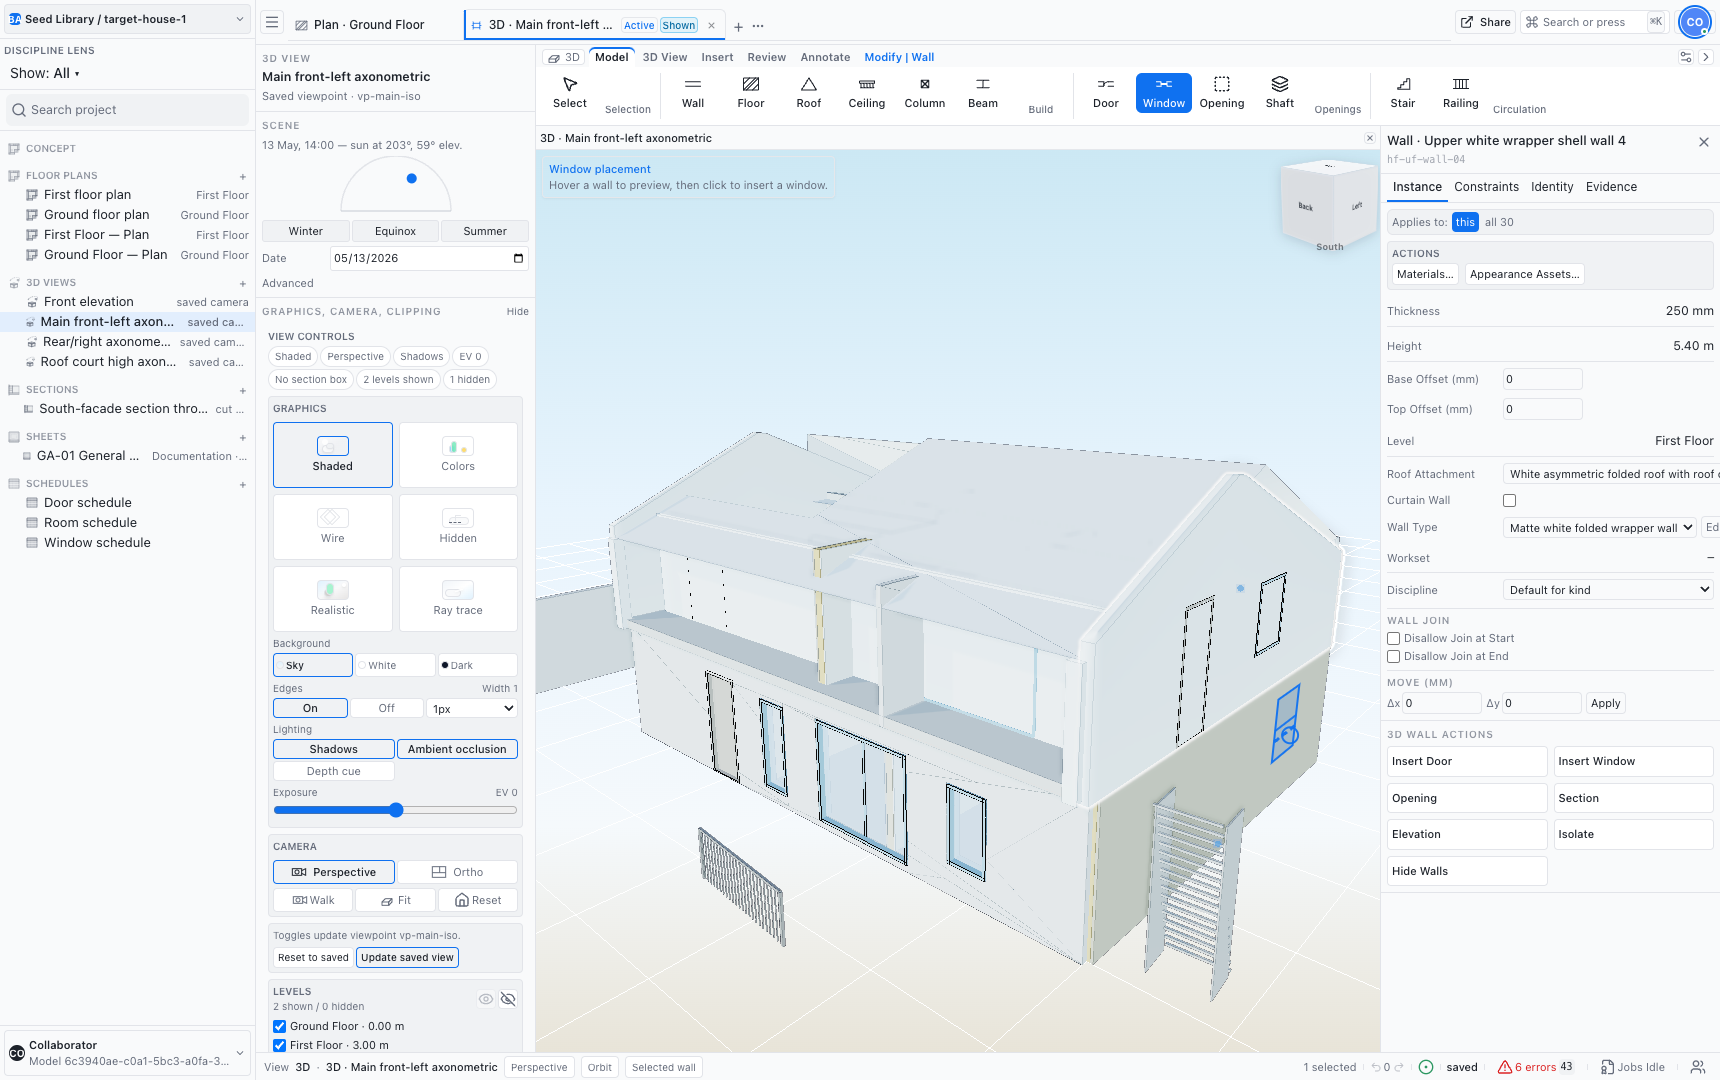
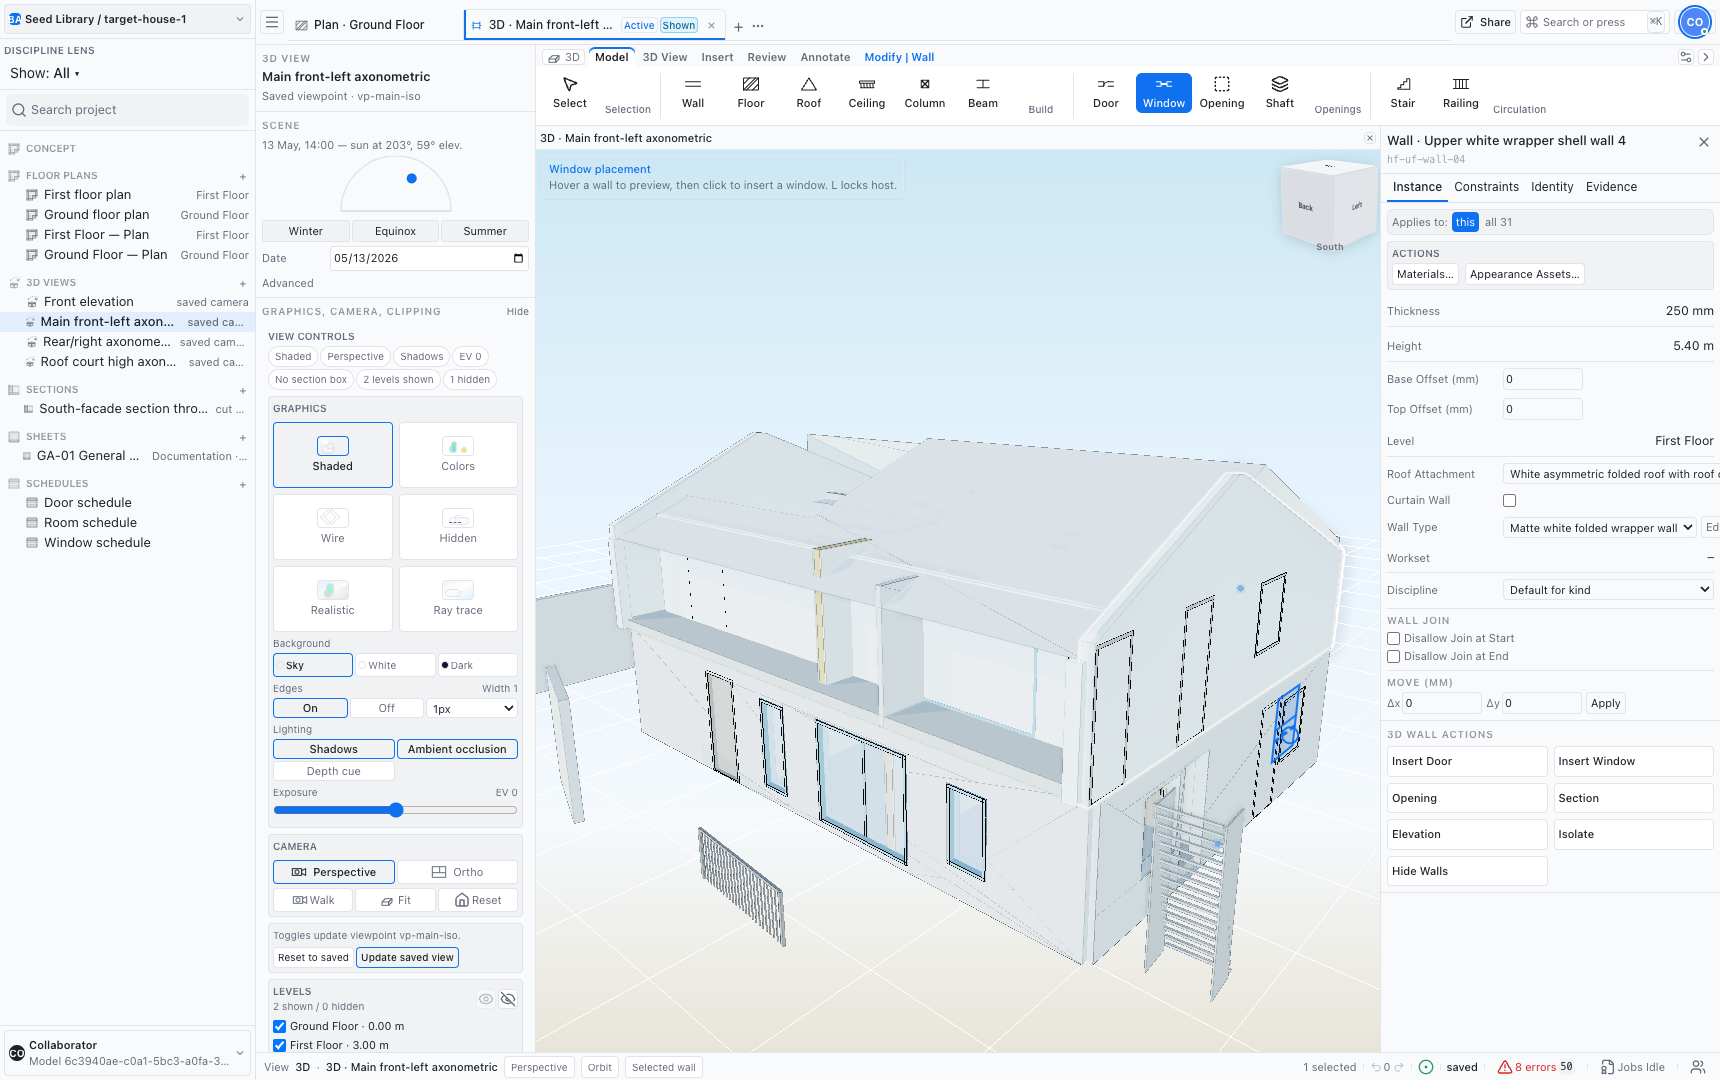
Add 3D host lock controls and robust hosted placement dedupe
Entire-Checkpoint: 5dba32492fc3

Changed region(s): [[0.6163, 0.6111, 0.7703, 0.8861], [0.3081, 0.6417, 0.339, 0.7639]]

diff --git a/packages/web/src/Viewport.tsx b/packages/web/src/Viewport.tsx
@@ -188,6 +188,7 @@ type Authoring3dOverlayState = {
   previewHostValid?: boolean;
   previewHostWallId?: string;
   previewHostAlongT?: number;
+  previewHostLock?: boolean;
   previewAuxLines?: Array<{ start: ScreenPoint; end: ScreenPoint }>;
   previewAuxArcPath?: string;
   wallPreviewOutlineScreen?: ScreenPoint[];
@@ -518,7 +519,14 @@ export function Viewport({ wsConnected, onSemanticCommand, remoteSelections }: P
       if (POLYGON_3D_AUTHORING_TOOLS.has(tool)) {
         return { tool, phase: 'pick-vertex', levelName: direct3dDraftLevelName, pointsScreen: [] };
       }
-      return { tool, phase: 'pick-wall', previewHostValid: false };
+      return {
+        tool,
+        phase: 'pick-wall',
+        previewHostValid: false,
+        previewHostLock: false,
+        previewAuxLines: undefined,
+        previewAuxArcPath: undefined,
+      };
     });
   }, [planTool, direct3dDraftLevelName]);
 
@@ -860,8 +868,10 @@ export function Viewport({ wsConnected, onSemanticCommand, remoteSelections }: P
       levelId: string;
       points: Array<{ xMm: number; yMm: number }>;
     } | null = null;
-    let lastHostedPlacement: HostedPlacementDedupeState | null = null;
+    let lastHostedPlacementScreen: HostedPlacementDedupeState | null = null;
+    let lastHostedPlacementHost: HostedPlacementDedupeState | null = null;
     let wallFlipNextSegment = false;
+    let hostPreviewLock = false;
 
     function placeCamera(): void {
       const snap = rig.snapshot();
@@ -974,6 +984,7 @@ export function Viewport({ wsConnected, onSemanticCommand, remoteSelections }: P
       options?: {
         tool?: 'door' | 'window' | 'wall-opening';
         preferWallId?: string;
+        lockToPreferred?: boolean;
       },
     ): {
       wall: Extract<Element, { kind: 'wall' }>;
@@ -1030,7 +1041,12 @@ export function Viewport({ wsConnected, onSemanticCommand, remoteSelections }: P
       let picked = sorted[0]!;
       if (options?.preferWallId) {
         const preferred = candidates.get(options.preferWallId);
-        if (preferred && preferred.score <= picked.score + 0.08) picked = preferred;
+        if (options.lockToPreferred) {
+          if (!preferred) return null;
+          picked = preferred;
+        } else if (preferred && preferred.score <= picked.score + 0.08) {
+          picked = preferred;
+        }
       }
       return {
         wall: picked.wall,
@@ -1170,7 +1186,7 @@ export function Viewport({ wsConnected, onSemanticCommand, remoteSelections }: P
       const headMm = tool === 'window' ? 2400 : tool === 'wall-opening' ? 2400 : 2100;
       const openingBottomMm = Math.min(topZMm - 50, baseZMm + sillMm);
       const openingTopMm = Math.max(openingBottomMm + 50, Math.min(topZMm, baseZMm + headMm));
-      const centerT = hit.alongT;
+      const centerT = clampHostedAlongT(tool, hit.wall, hit.alongT);
       const halfDeltaT = previewWidthMm / 2 / wallLenMm;
       const startT = Math.max(0, centerT - halfDeltaT);
       const endT = Math.min(1, centerT + halfDeltaT);
@@ -1223,13 +1239,31 @@ export function Viewport({ wsConnected, onSemanticCommand, remoteSelections }: P
       };
     }
 
+    function clampHostedAlongT(
+      tool: 'door' | 'window' | 'wall-opening',
+      wall: Extract<Element, { kind: 'wall' }>,
+      alongT: number,
+    ): number {
+      const dx = wall.end.xMm - wall.start.xMm;
+      const dy = wall.end.yMm - wall.start.yMm;
+      const wallLenMm = Math.max(1, Math.hypot(dx, dy));
+      const nominalWidthMm = tool === 'door' ? 900 : tool === 'window' ? 1200 : 1000;
+      const edgeClearanceMm = nominalWidthMm / 2 + 80;
+      const margin = Math.max(0.02, Math.min(0.18, edgeClearanceMm / wallLenMm));
+      return Math.max(margin, Math.min(1 - margin, alongT));
+    }
+
     function handle3dDirectToolClick(cx: number, cy: number): boolean {
       const tool = activeDirect3dTool();
       if (!tool) {
         lineDraftStart = null;
         polygonDraft = null;
+        hostPreviewLock = false;
         setAuthoringOverlay(null);
         return false;
+      }
+      if (tool !== 'door' && tool !== 'window' && tool !== 'wall-opening') {
+        hostPreviewLock = false;
       }
       if (!POLYGON_3D_AUTHORING_TOOLS.has(tool)) polygonDraft = null;
       if (!LINE_3D_AUTHORING_TOOLS.has(tool)) lineDraftStart = null;
@@ -1238,6 +1272,7 @@ export function Viewport({ wsConnected, onSemanticCommand, remoteSelections }: P
         const hit = pickWallAtPointer(cx, cy, {
           tool,
           preferWallId: overlay?.tool === tool ? overlay.previewHostWallId : undefined,
+          lockToPreferred: hostPreviewLock,
         });
         const rect = renderer.domElement.getBoundingClientRect();
         const clickScreen = { x: cx - rect.left, y: cy - rect.top };
@@ -1272,8 +1307,9 @@ export function Viewport({ wsConnected, onSemanticCommand, remoteSelections }: P
                   previewStartScreen: undefined,
                   previewEndScreen: undefined,
                   previewHostValid: false,
-                  previewHostWallId: undefined,
-                  previewHostAlongT: undefined,
+                  previewHostWallId: hostPreviewLock ? prev.previewHostWallId : undefined,
+                  previewHostAlongT: hostPreviewLock ? prev.previewHostAlongT : undefined,
+                  previewHostLock: hostPreviewLock,
                   previewAuxLines: undefined,
                   previewAuxArcPath: undefined,
                 }
@@ -1281,13 +1317,23 @@ export function Viewport({ wsConnected, onSemanticCommand, remoteSelections }: P
           );
           return true;
         }
-        alongT = Math.max(0, Math.min(1, alongT));
-        const nextPlacement: HostedPlacementDedupeState = {
+        alongT = clampHostedAlongT(tool, hostWall, Math.max(0, Math.min(1, alongT)));
+        const nextPlacementScreen: HostedPlacementDedupeState = {
           key: `${tool}:${Math.round(clickScreen.x / 8)}:${Math.round(clickScreen.y / 8)}`,
           atMs: performance.now(),
         };
-        if (isDuplicateHostedPlacement(lastHostedPlacement, nextPlacement)) return true;
-        lastHostedPlacement = nextPlacement;
+        const nextPlacementHost: HostedPlacementDedupeState = {
+          key: `${tool}:${hostWall.id}:${Math.round(alongT * 1000)}`,
+          atMs: performance.now(),
+        };
+        if (
+          isDuplicateHostedPlacement(lastHostedPlacementScreen, nextPlacementScreen, 900) ||
+          isDuplicateHostedPlacement(lastHostedPlacementHost, nextPlacementHost, 1500)
+        ) {
+          return true;
+        }
+        lastHostedPlacementScreen = nextPlacementScreen;
+        lastHostedPlacementHost = nextPlacementHost;
         useBimStore.getState().select(hostWall.id);
         if (tool === 'door') {
           onSemanticCommand?.({
@@ -1883,6 +1929,7 @@ export function Viewport({ wsConnected, onSemanticCommand, remoteSelections }: P
             authoringOverlayRef.current?.tool === directTool
               ? authoringOverlayRef.current.previewHostWallId
               : undefined,
+          lockToPreferred: hostPreviewLock,
         });
         if (!hit) {
           setAuthoringOverlay((prev) =>
@@ -1897,8 +1944,9 @@ export function Viewport({ wsConnected, onSemanticCommand, remoteSelections }: P
                   previewStartScreen: undefined,
                   previewEndScreen: undefined,
                   previewHostValid: false,
-                  previewHostWallId: undefined,
-                  previewHostAlongT: undefined,
+                  previewHostWallId: hostPreviewLock ? prev.previewHostWallId : undefined,
+                  previewHostAlongT: hostPreviewLock ? prev.previewHostAlongT : undefined,
+                  previewHostLock: hostPreviewLock,
                   previewAuxLines: undefined,
                   previewAuxArcPath: undefined,
                 }
@@ -1918,6 +1966,7 @@ export function Viewport({ wsConnected, onSemanticCommand, remoteSelections }: P
                     previewHostValid: preview.valid,
                     previewHostWallId: hit.wall.id,
                     previewHostAlongT: hit.alongT,
+                    previewHostLock: hostPreviewLock,
                     previewAuxLines: preview.auxLines,
                     previewAuxArcPath: preview.auxArcPath,
                   }
@@ -2038,6 +2087,36 @@ export function Viewport({ wsConnected, onSemanticCommand, remoteSelections }: P
       }
       if (ev.key === 'Escape' && walkController.snapshot().active) {
         ev.preventDefault();
+      }
+      if (ev.key === 'Escape') {
+        const tool = activeDirect3dTool();
+        if (tool === 'door' || tool === 'window' || tool === 'wall-opening') {
+          hostPreviewLock = false;
+          setAuthoringOverlay((prev) =>
+            prev?.tool === tool
+              ? {
+                  ...prev,
+                  previewHostLock: false,
+                }
+              : prev,
+          );
+        }
+      }
+      if (ev.key === 'Tab' || ev.key.toLowerCase() === 'l') {
+        const tool = activeDirect3dTool();
+        if (tool === 'door' || tool === 'window' || tool === 'wall-opening') {
+          hostPreviewLock = !hostPreviewLock;
+          setAuthoringOverlay((prev) =>
+            prev?.tool === tool
+              ? {
+                  ...prev,
+                  previewHostLock: hostPreviewLock,
+                }
+              : prev,
+          );
+          ev.preventDefault();
+          return;
+        }
       }
       if (ev.code === 'Space') {
         const tool = activeDirect3dTool();
@@ -3536,8 +3615,12 @@ export function Viewport({ wsConnected, onSemanticCommand, remoteSelections }: P
         title: 'Door placement',
         instruction:
           authoringOverlay.previewHostValid === false
-            ? 'Move over a wall to see a valid host preview, then click to place.'
-            : 'Hover a wall to preview, then click to insert a door.',
+            ? `Move over a wall to see a valid host preview, then click to place. L ${
+                authoringOverlay.previewHostLock ? 'unlocks' : 'locks'
+              } host.`
+            : `Hover a wall to preview, then click to insert a door. L ${
+                authoringOverlay.previewHostLock ? 'unlocks' : 'locks'
+              } host.`,
       };
     }
     if (authoringOverlay.tool === 'window') {
@@ -3545,16 +3628,24 @@ export function Viewport({ wsConnected, onSemanticCommand, remoteSelections }: P
         title: 'Window placement',
         instruction:
           authoringOverlay.previewHostValid === false
-            ? 'Move over a wall to see a valid host preview, then click to place.'
-            : 'Hover a wall to preview, then click to insert a window.',
+            ? `Move over a wall to see a valid host preview, then click to place. L ${
+                authoringOverlay.previewHostLock ? 'unlocks' : 'locks'
+              } host.`
+            : `Hover a wall to preview, then click to insert a window. L ${
+                authoringOverlay.previewHostLock ? 'unlocks' : 'locks'
+              } host.`,
       };
     }
     return {
       title: 'Opening placement',
       instruction:
         authoringOverlay.previewHostValid === false
-          ? 'Move over a wall to see a valid host preview, then click to place.'
-          : 'Hover a wall to preview, then click to insert an opening.',
+          ? `Move over a wall to see a valid host preview, then click to place. L ${
+              authoringOverlay.previewHostLock ? 'unlocks' : 'locks'
+            } host.`
+          : `Hover a wall to preview, then click to insert an opening. L ${
+              authoringOverlay.previewHostLock ? 'unlocks' : 'locks'
+            } host.`,
     };
   }, [authoringOverlay, direct3dAuthoringActive]);
 
@@ -3795,6 +3886,31 @@ export function Viewport({ wsConnected, onSemanticCommand, remoteSelections }: P
                 opacity="0.9"
               />
             ))}
+            {authoringOverlay.previewHostLock ? (
+              <>
+                <rect
+                  x={authoringOverlay.currentScreen.x + 12}
+                  y={authoringOverlay.currentScreen.y - 26}
+                  width={72}
+                  height={18}
+                  rx={9}
+                  fill="color-mix(in srgb, var(--color-accent) 22%, var(--color-surface))"
+                  stroke="var(--color-accent)"
+                  strokeWidth="1"
+                  opacity="0.95"
+                />
+                <text
+                  x={authoringOverlay.currentScreen.x + 48}
+                  y={authoringOverlay.currentScreen.y - 14}
+                  textAnchor="middle"
+                  fontSize="10"
+                  fontWeight="600"
+                  fill="var(--color-accent)"
+                >
+                  HOST LOCK
+                </text>
+              </>
+            ) : null}
             <circle
               cx={authoringOverlay.currentScreen.x}
               cy={authoringOverlay.currentScreen.y}

diff --git a/spec/ux-bim-ai-next-tracker.md b/spec/ux-bim-ai-next-tracker.md
@@ -274,6 +274,10 @@ Evidence (2026-05-13):
   - command traces:
     - `packages/web/tmp/ux-hosted-preview-snap-20260513/summary.json` (door double-click emits one `insertDoorOnWall`; window emits one `insertWindowOnWall`)
     - `packages/web/tmp/ux-door-wall-guard-20260513/summary.json` (regression re-check still emits one `insertDoorOnWall` + one `createWall`).
+- Follow-up dense-junction host control adds explicit host lock UX (`L` to lock/unlock + `HOST LOCK` badge), keeps lock on the selected host during overlap ambiguity, and clamps hosted `alongT` away from wall-end slivers to avoid unstable flips:
+  - code: `packages/web/src/Viewport.tsx`
+  - seeded captures: `packages/web/tmp/ux-host-lock-20260513/01-host-preview-unlocked.png`, `02-host-preview-locked.png`, `03-host-unlocked-second-place.png`
+  - command trace: `packages/web/tmp/ux-host-lock-20260513/summary.json` (`countAfterLockedAttempt: 1`, so lock phase suppresses unintended second placement; unlock allows the intentional second wall-host placement).
 
 ### WP-NEXT-07 — 3D Level Visibility Controls
 
